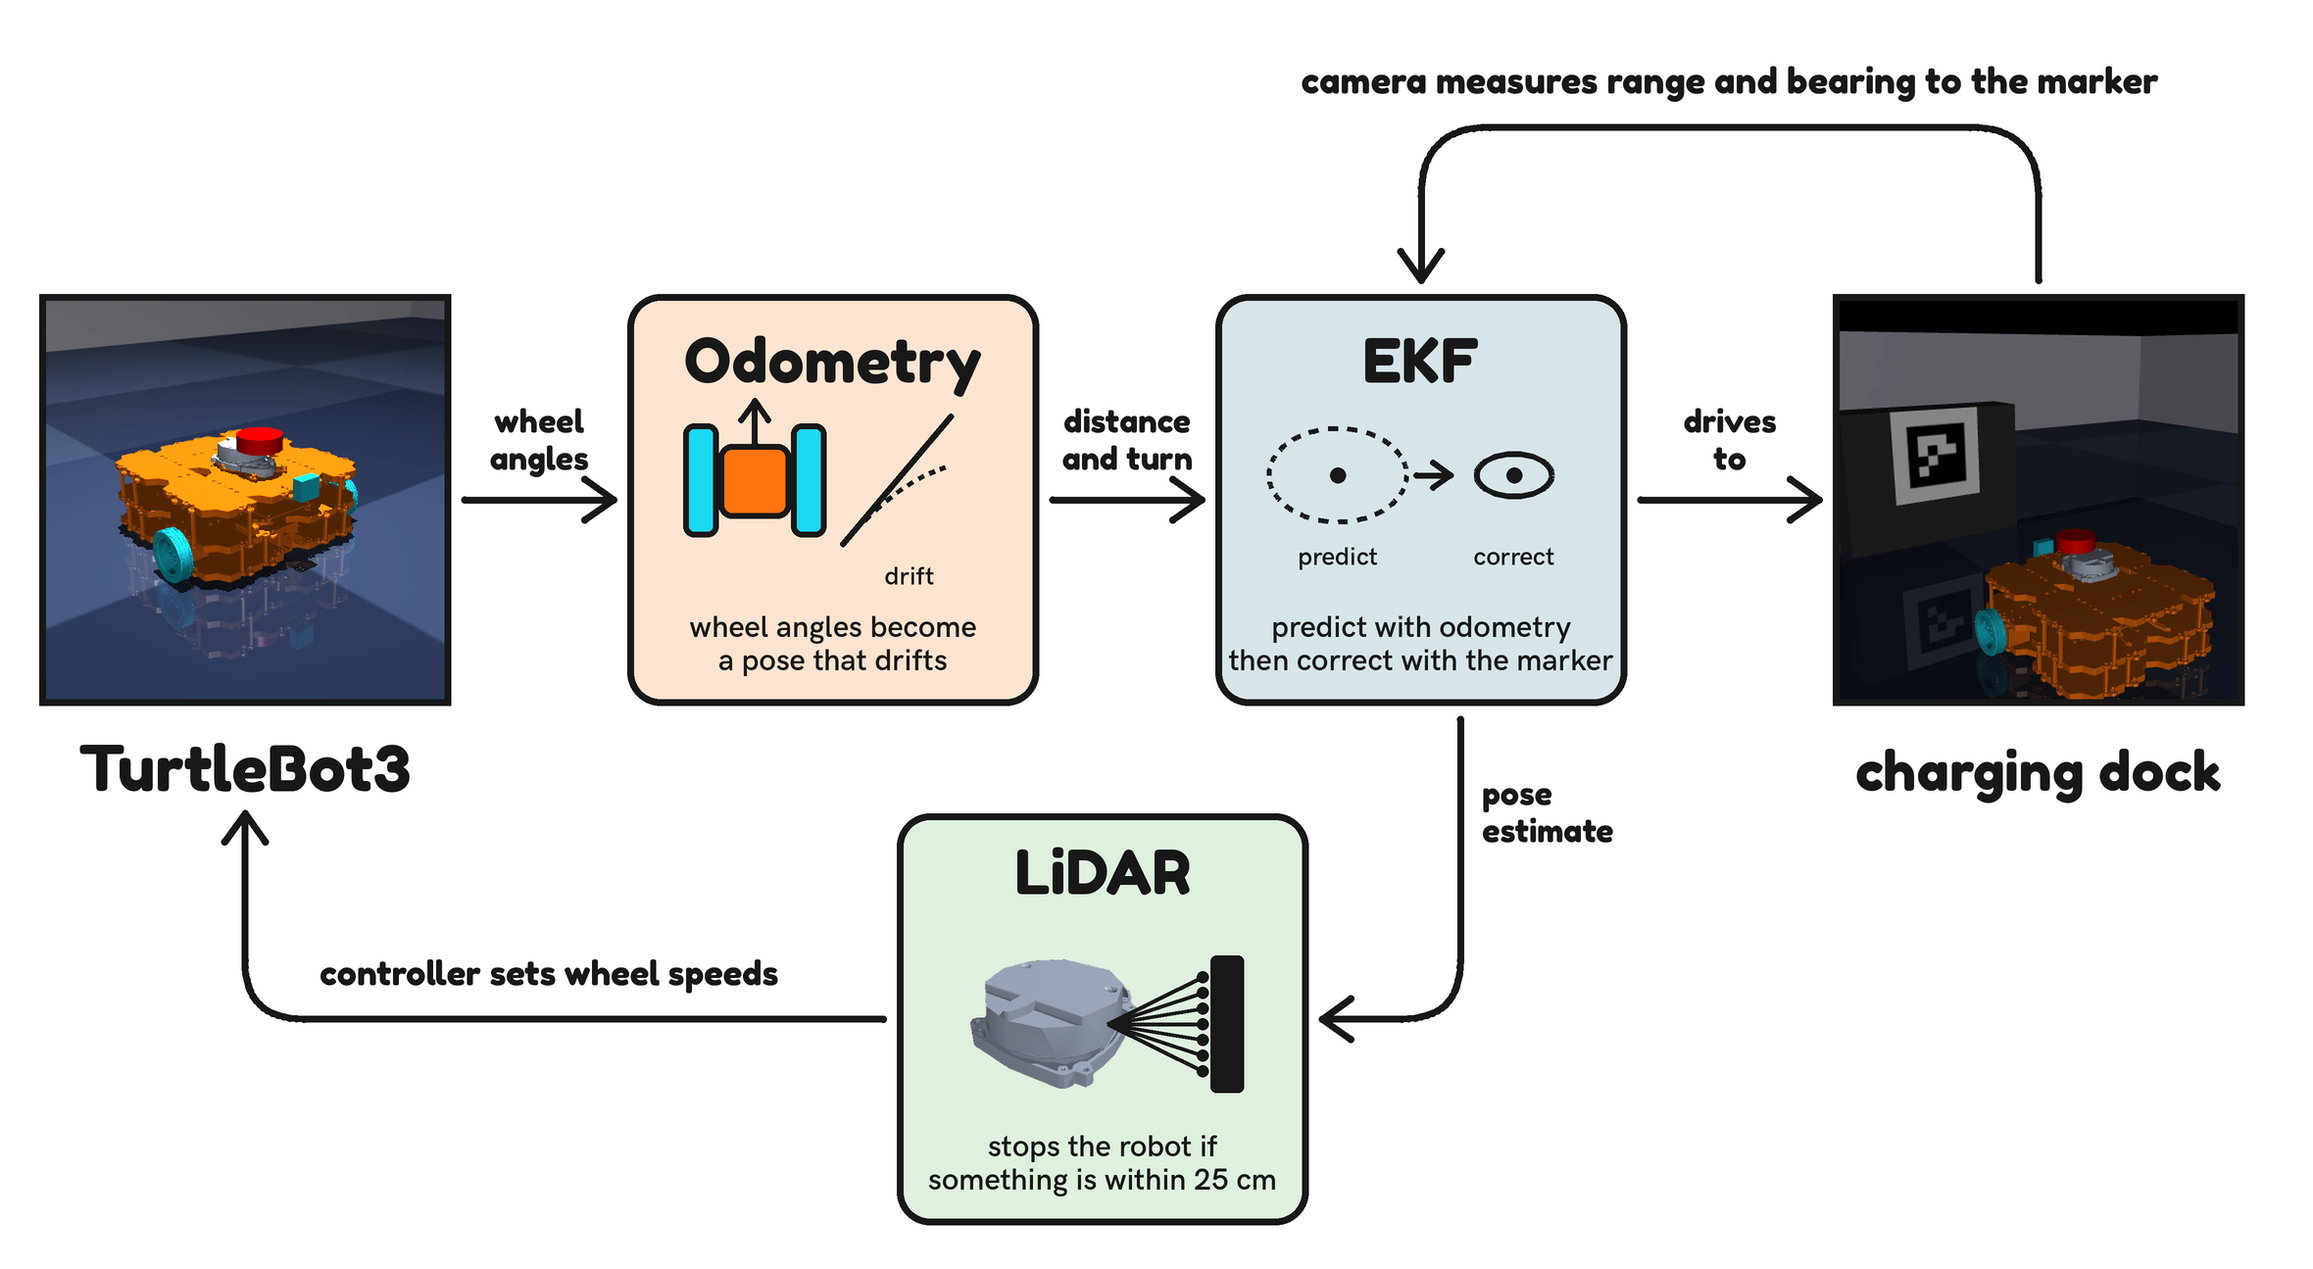
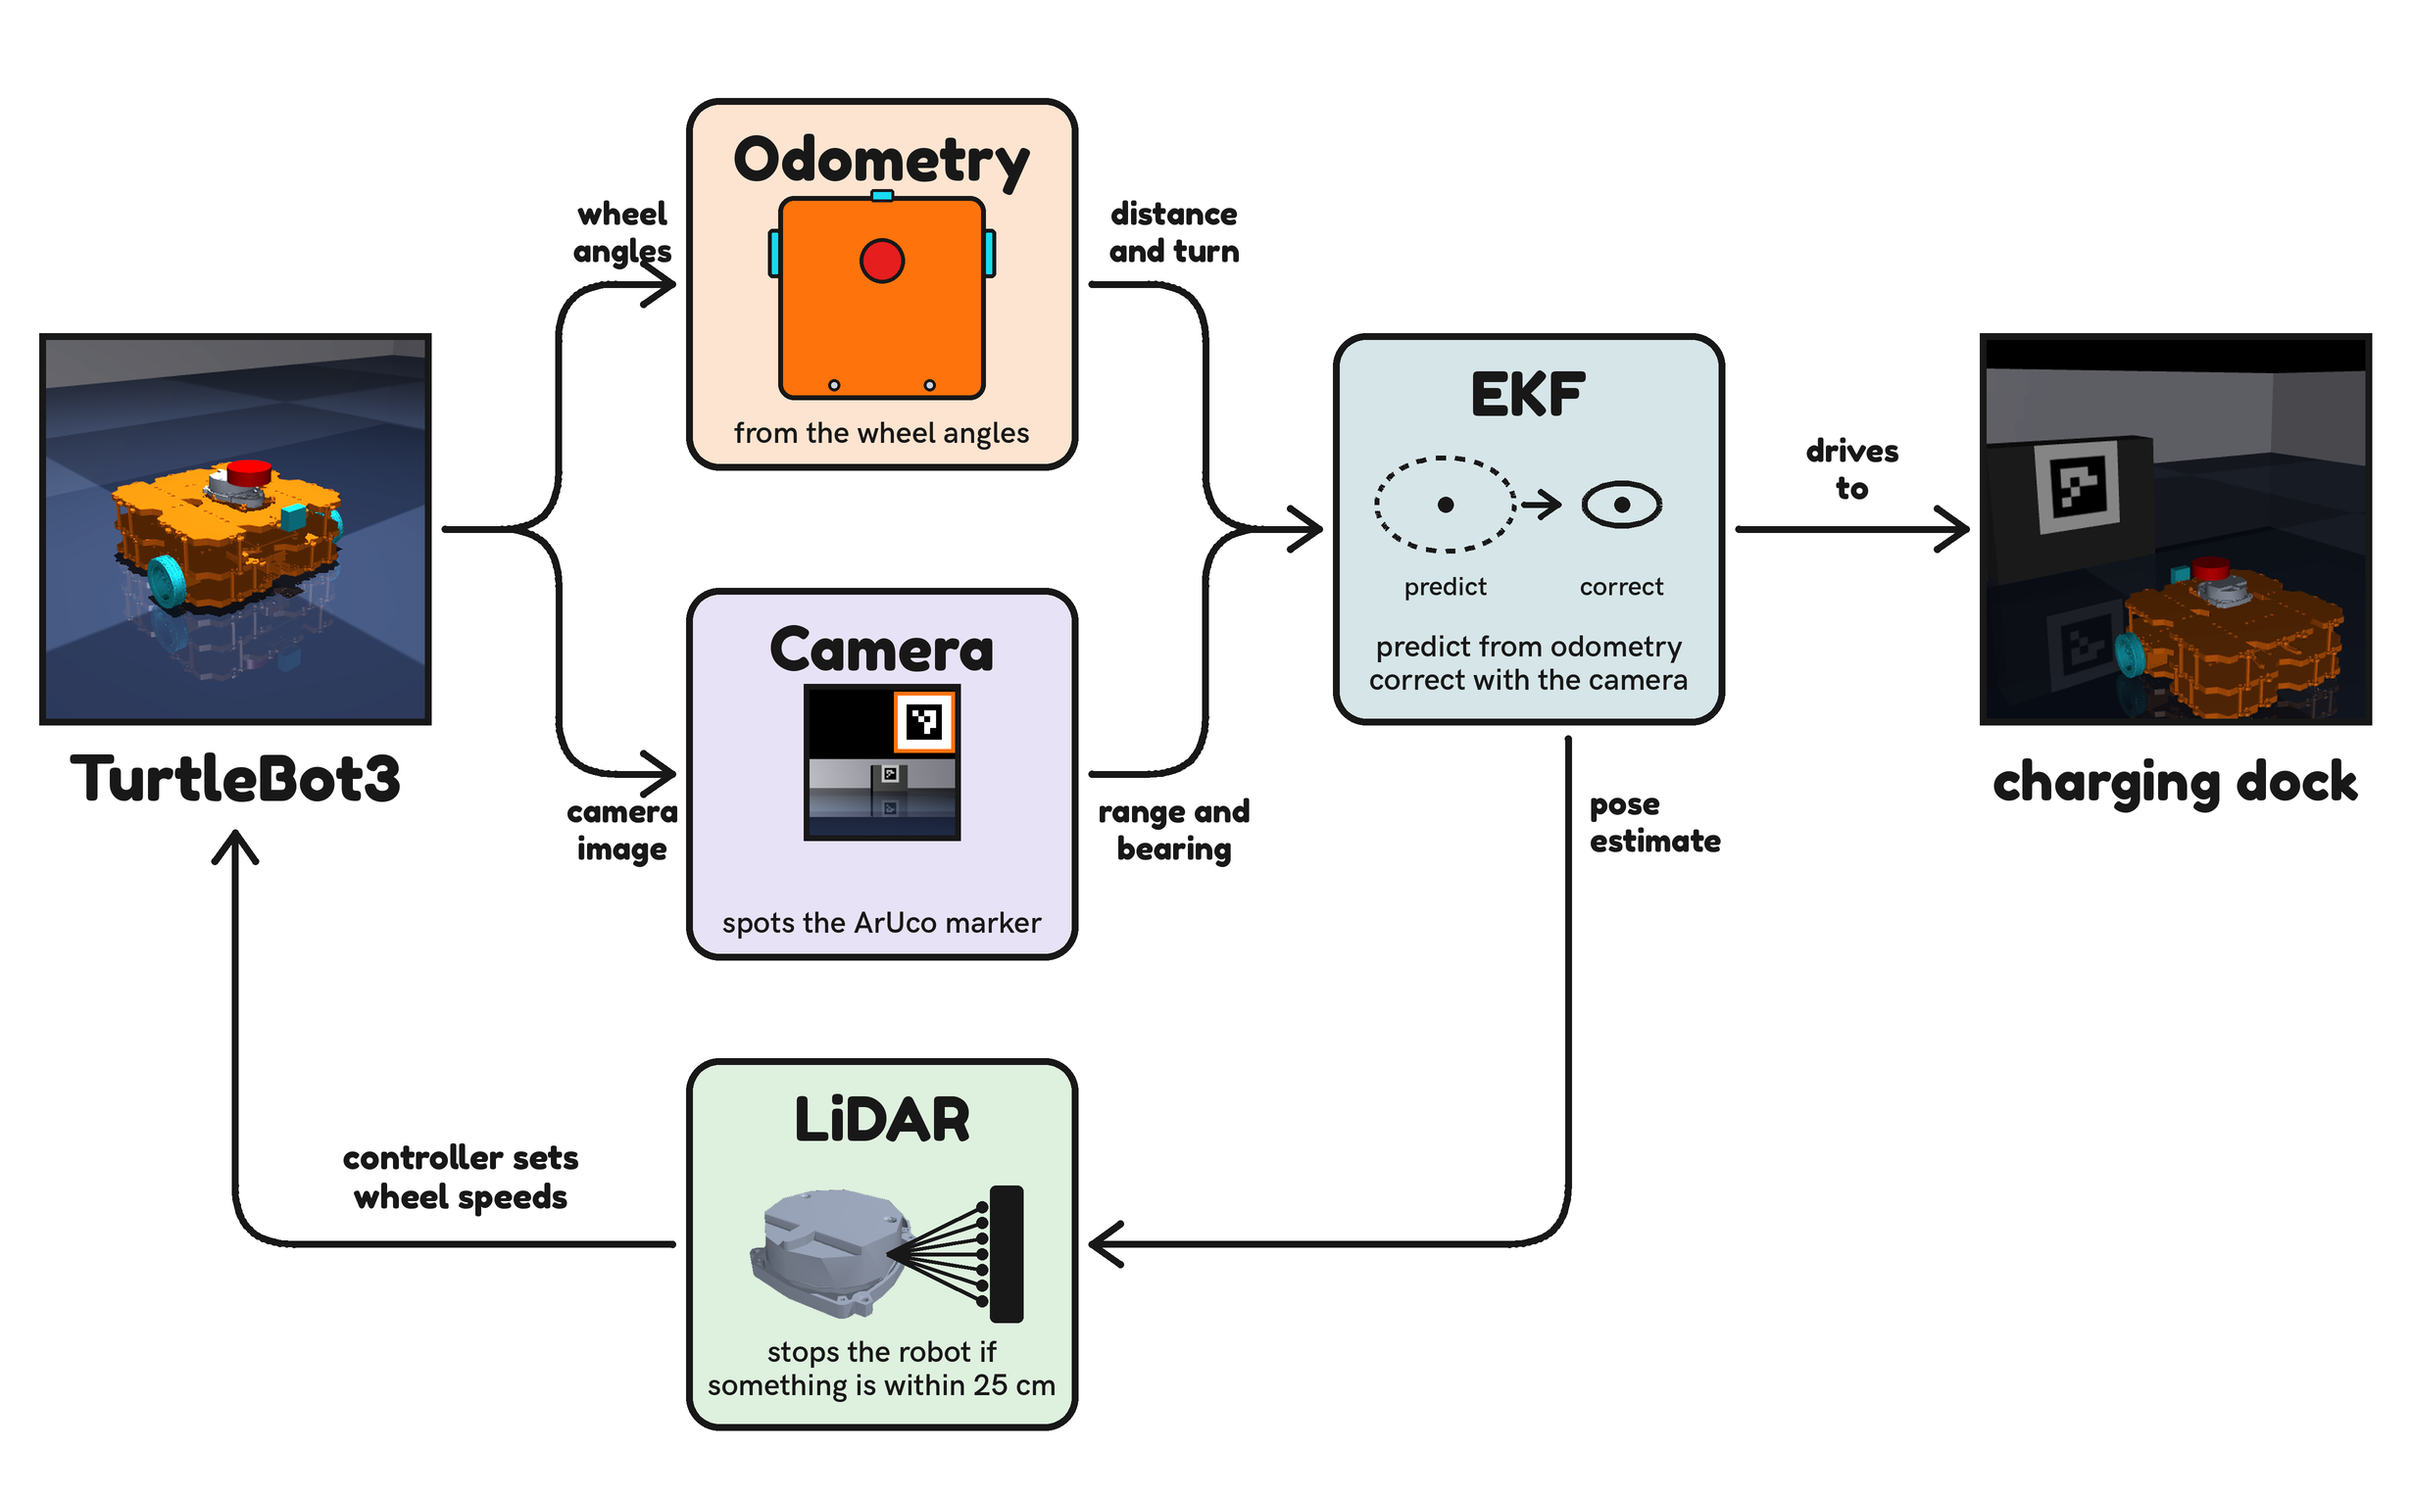
teaser photo and explaination

diff --git a/index.html b/index.html
@@ -33,13 +33,17 @@
     <div class="container is-max-desktop">
       <div class="columns is-centered">
         <div class="column has-text-centered">
-          <h1 class="title is-1 publication-title">41118 Group 40 Portfolio</h1>
+          <h1 class="title is-1 publication-title">Visual Waypoint Navigation Portfolio</h1>
+          <h2 class="title is-1 publication-title"></h2>
           <div class="is-size-5 publication-authors">
-            <span class="author-block">
-              <a href="">Liam Vaneris</a><sup>1</sup>,
+
+          <div class="is-size-5 publication-authors">
+            <span class="author-block">41118 Group 40</sup></span>
+          </div>
+
+            <span class="author-block">Liam Vaneris</a><sup>1</sup>,
             </span>
-            <span class="author-block">
-              <a href="">Patrick Frost</a><sup>2</sup>
+            <span class="author-block">Patrick Frost</a><sup>2</sup>
             </span>
             <span class="author-block">Bilal Hussain</a><sup>3</sup>
             </span>
@@ -97,7 +101,7 @@
             class="teaser-image"
             alt="Teaser."/>
       <h2 class="subtitle has-text-centered">
-        <span class="dnerf">41118 Track A, mobile robot - this text is going to explain a teaser image for our project. This image is AI generated. This text would be a great place to give a quick summary for own flowchart. </span> This is another optional font for this section.
+        <span class="dnerf">Track A, mobile robot: </span> Within our Mujoco simulation, our Turtlebot3 is equiped with 2 driven wheels, a 2D lidar camera and a front facing camera. The wheel angles are fed into Odometry which works out the distance and rotation of the wheels with a degree of error (see diagram). To account for this error, the front facing camera sees the marker and its range and bearing is recorded. The Extended Kalman Filter (EKF) takes these data points and estimates the error by calculating and appropriate adjustment depending on how confident the filter is on the odometry readings. 
       </h2>
     </div>
   </div>
